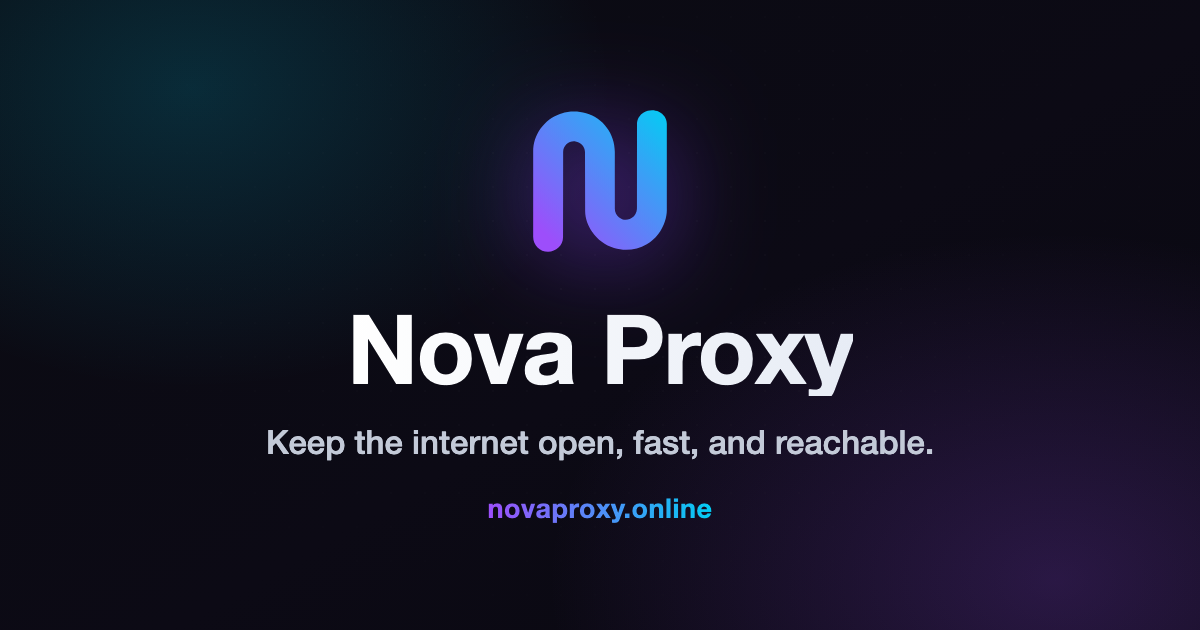
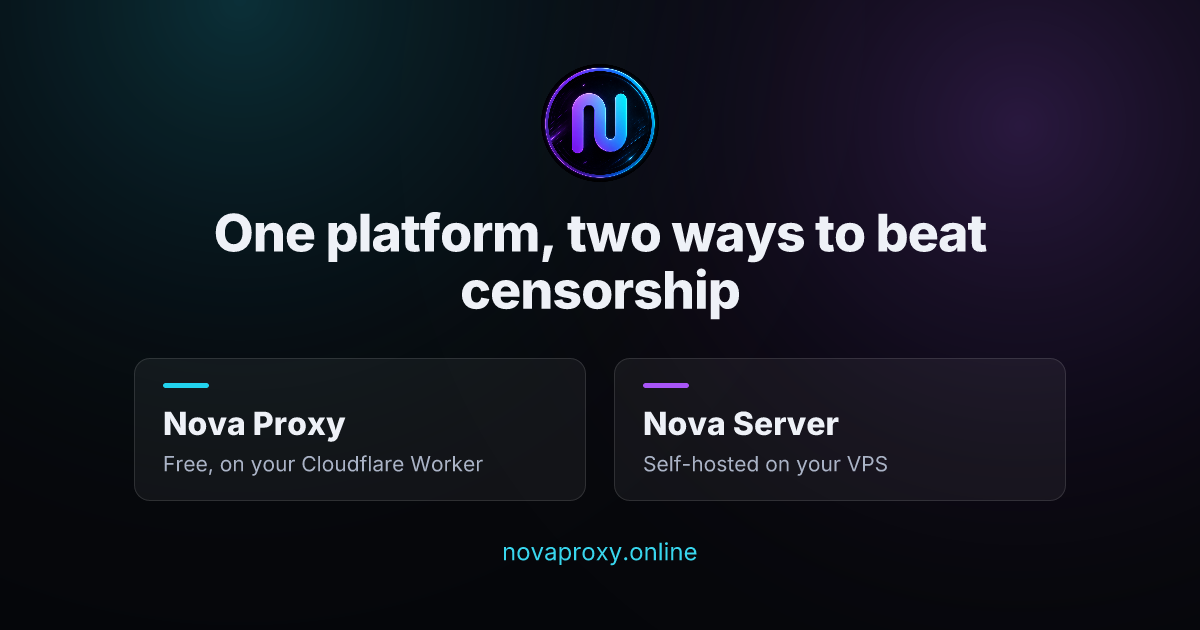
Feature iiviirv as lead (Core developer & maintainer); refresh OG for two-platform brand
- Team: iiviirv first with a featured 'LEAD' card (gradient border, ring, gradient role)
- OG: new slogan 'One platform, two ways to beat censorship' + both products; regenerated og.png/og-en.png; updated meta + title

Claude-Session: https://claude.ai/code/session_01RuNVcf9HFrx2S8S34Gvra7

Changed region(s): [[0.1233, 0.0, 0.9558, 0.754], [0.4008, 0.6635, 1.0, 1.0]]

diff --git a/index.html b/index.html
@@ -11,30 +11,30 @@
     <meta name="theme-color" content="#05060a" />
     <meta
       name="description"
-      content="Nova Proxy builds open-source networking and proxy tools (Nova-Proxy, Nova-Proxy-App, and NovaRadar) engineered to keep the internet open, fast, and reachable."
+      content="Nova is one platform with two ways to beat censorship: Nova Proxy, a free one-click proxy that runs on your own Cloudflare Worker, and Nova Server, a self-hosted panel on your own VPS. Open-source, bilingual, dark-first."
     />
-    <meta property="og:title" content="Nova Proxy: Open-Source Networking Tools" />
+    <meta property="og:title" content="Nova: One platform, two ways to beat censorship" />
     <meta
       property="og:description"
-      content="Free, open-source proxy & networking tools to keep the internet open, with a simple step-by-step setup guide. ابزارهای متنباز برای عبور از فیلترینگ."
+      content="Nova Proxy, a free one-click proxy on your own Cloudflare Worker, and Nova Server, a self-hosted panel on your own VPS. یک پلتفرم، دو راه برای عبور از سانسور."
     />
     <meta property="og:type" content="website" />
     <meta property="og:url" content="https://novaproxy.online/" />
-    <meta property="og:site_name" content="Nova Proxy" />
+    <meta property="og:site_name" content="Nova" />
     <meta property="og:image" content="https://novaproxy.online/og.png" />
     <meta property="og:image:width" content="1200" />
     <meta property="og:image:height" content="630" />
-    <meta property="og:image:alt" content="Nova Proxy: keep the internet open, fast, and reachable." />
+    <meta property="og:image:alt" content="Nova: one platform, two ways to beat censorship, Nova Proxy and Nova Server." />
     <meta property="og:locale" content="fa_IR" />
     <meta property="og:locale:alternate" content="en_US" />
     <meta name="twitter:card" content="summary_large_image" />
-    <meta name="twitter:title" content="Nova Proxy: Open-Source Networking Tools" />
+    <meta name="twitter:title" content="Nova: One platform, two ways to beat censorship" />
     <meta
       name="twitter:description"
-      content="Free, open-source proxy & networking tools to keep the internet open, with a simple step-by-step setup guide."
+      content="Nova Proxy, a free one-click proxy on your own Cloudflare Worker, and Nova Server, a self-hosted panel on your own VPS."
     />
     <meta name="twitter:image" content="https://novaproxy.online/og.png" />
-    <title>Nova Proxy: Open-Source Networking Tools</title>
+    <title>Nova: One platform, two ways to beat censorship</title>
     <script>
       // Apply the saved language/direction/theme before paint to avoid a flash.
       (function () {

diff --git a/src/index.css b/src/index.css
@@ -2682,6 +2682,74 @@ h3 {
   color: var(--cyan);
 }
 
+/* Featured lead: the main developer's card, distinct from contributors. */
+.team-card-lead {
+  position: relative;
+  padding-top: 34px;
+  border: 1.5px solid transparent;
+  /* Opaque bg-alt blocker keeps the gradient in the border only; the surface
+     tint on top gives the panel a hair of elevation over the section. */
+  background:
+    linear-gradient(var(--surface-2), var(--surface-2)) padding-box,
+    linear-gradient(var(--bg-alt), var(--bg-alt)) padding-box,
+    var(--grad) border-box;
+  box-shadow:
+    0 0 0 1px color-mix(in srgb, var(--cyan) 14%, transparent),
+    0 18px 44px -22px color-mix(in srgb, var(--violet) 65%, transparent);
+}
+
+.team-card-lead:hover {
+  border-color: transparent;
+  background:
+    linear-gradient(color-mix(in srgb, var(--text) 10%, transparent), color-mix(in srgb, var(--text) 10%, transparent)) padding-box,
+    linear-gradient(var(--bg-alt), var(--bg-alt)) padding-box,
+    var(--grad) border-box;
+}
+
+.team-lead-badge {
+  position: absolute;
+  top: 0;
+  left: 50%;
+  transform: translate(-50%, -50%);
+  padding: 4px 14px;
+  border-radius: 999px;
+  background: var(--grad);
+  color: #05060a;
+  font-size: 0.72rem;
+  font-weight: 800;
+  text-transform: uppercase;
+  white-space: nowrap;
+  box-shadow: 0 6px 16px -6px color-mix(in srgb, var(--violet) 70%, transparent);
+}
+
+.team-card-lead .team-avatar {
+  width: 96px;
+  height: 96px;
+  border-color: transparent;
+  box-shadow:
+    0 0 0 3px color-mix(in srgb, var(--cyan) 55%, transparent),
+    0 0 26px -4px color-mix(in srgb, var(--violet) 70%, transparent);
+}
+
+.team-card-lead .team-name {
+  font-size: 1.32rem;
+  font-weight: 800;
+}
+
+.team-card-lead .team-role {
+  background: var(--grad);
+  -webkit-background-clip: text;
+  background-clip: text;
+  color: transparent;
+  font-weight: 700;
+}
+
+@media (prefers-reduced-motion: reduce) {
+  .team-card-lead:hover {
+    transform: none;
+  }
+}
+
 @media (max-width: 560px) {
   .client-grid {
     grid-template-columns: 1fr;

diff --git a/src/data/projects.js b/src/data/projects.js
@@ -215,18 +215,19 @@ export const clients = [
 // no rate limit). Roles are easy to edit; adjust as the team grows.
 export const team = [
   {
+    handle: 'iiviirv',
+    name: 'iiviirv',
+    url: 'https://github.com/iiviirv',
+    avatar: 'https://github.com/iiviirv.png?size=200',
+    role: { en: 'Core developer & maintainer', fa: 'توسعهدهنده و نگهدارنده اصلی' },
+    lead: true,
+  },
+  {
     handle: 'IRNova',
     name: 'IRNova',
     url: 'https://github.com/IRNova',
     avatar: 'https://github.com/IRNova.png?size=200',
     role: { en: 'Creator & maintainer', fa: 'سازنده و نگهدارنده' },
-  },
-  {
-    handle: 'iiviirv',
-    name: 'iiviirv',
-    url: 'https://github.com/iiviirv',
-    avatar: 'https://github.com/iiviirv.png?size=200',
-    role: { en: 'Contributor', fa: 'مشارکتکننده' },
   },
   {
     handle: 'Vahid-4444',

diff --git a/src/App.jsx b/src/App.jsx
@@ -838,12 +838,13 @@ export default function App() {
           <div className="team-grid">
             {team.map((m) => (
               <a
-                className="team-card"
+                className={`team-card${m.lead ? ' team-card-lead' : ''}`}
                 key={m.handle}
                 href={m.url}
                 target="_blank"
                 rel="noreferrer noopener"
               >
+                {m.lead && <span className="team-lead-badge">{t.teamLead}</span>}
                 <img
                   className="team-avatar"
                   src={m.avatar}

diff --git a/src/i18n/translations.js b/src/i18n/translations.js
@@ -491,6 +491,7 @@ export const ui = {
     },
     footer: { note: 'Open-source networking tools. Built for an open internet.' },
     viewOnGithub: 'View on GitHub',
+    teamLead: 'Lead',
     flagship: 'Flagship',
   },
   fa: {
@@ -977,6 +978,7 @@ export const ui = {
     },
     footer: { note: 'ابزارهای شبکهی متنباز. ساختهشده برای اینترنتی آزاد.' },
     viewOnGithub: 'مشاهده در گیتهاب',
+    teamLead: 'سرپرست',
     flagship: 'پرچمدار',
   },
 }
